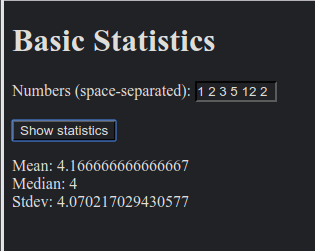
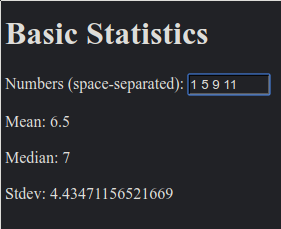
Update solution for etude 3-4

Changed region(s): [[0.0, 0.0, 1.0, 1.0]]

diff --git a/etudes-stats/resources/public/index.html b/etudes-stats/resources/public/index.html
@@ -2,19 +2,14 @@
 <html>
   <head>
     <title>Basic Statistics</title>
-    <meta http-equiv="Content-Type" content="text/html;
-                                             charset=utf-8" />
+    <meta http-equiv="Content-Type" content="text/html;charset=utf-8" />
   </head>
   <body>
     <h1>Basic Statistics</h1>
     <p>
       Numbers (space-separated): <input type="text" size="8" id="number-sequence" /><br /><br />
-      <input type="button" value="Show statistics" id="show"/>
-    </p>
-
-    <p>
-      Mean: <span id="mean"></span> <br />
-      Median: <span id="median"></span> <br />
+      Mean: <span id="mean"></span><br /><br />
+      Median: <span id="median"></span><br /><br />
       Stdev: <span id="stdev"></span> 
     </p>
 

diff --git a/etudes-stats/README.md b/etudes-stats/README.md
@@ -5,18 +5,14 @@ etudes-stats
 Overview
 --------
 
-This is a solution for [Étude 3-3: More List Manipulation](http://catcode.com/etudes-for-clojurescript/ch03-lists-vectors.html).
+This is a solution for both [Étude 3-3 and 3-4](http://catcode.com/etudes-for-clojurescript/ch03-lists-vectors.html).
 
 
 Usage
 -----
 
-After opening a browser tab pointing at [localhost:3449](http://localhost:3449/), execute the
-following steps in order to get the mean, median, and the standard deviation of a given list of
-numbers:
-
-1. Input numbers separated by a space.
-3. Press the _Show statistics_ button to display the mean, median, and the standard deviation.
+After opening a browser tab pointing at [localhost:3449](http://localhost:3449/), input numbers
+separated with a single space to get their mean, median, and standard deviation, in real time.
 
 ![image](/etudes-stats/images/image.png)
 
